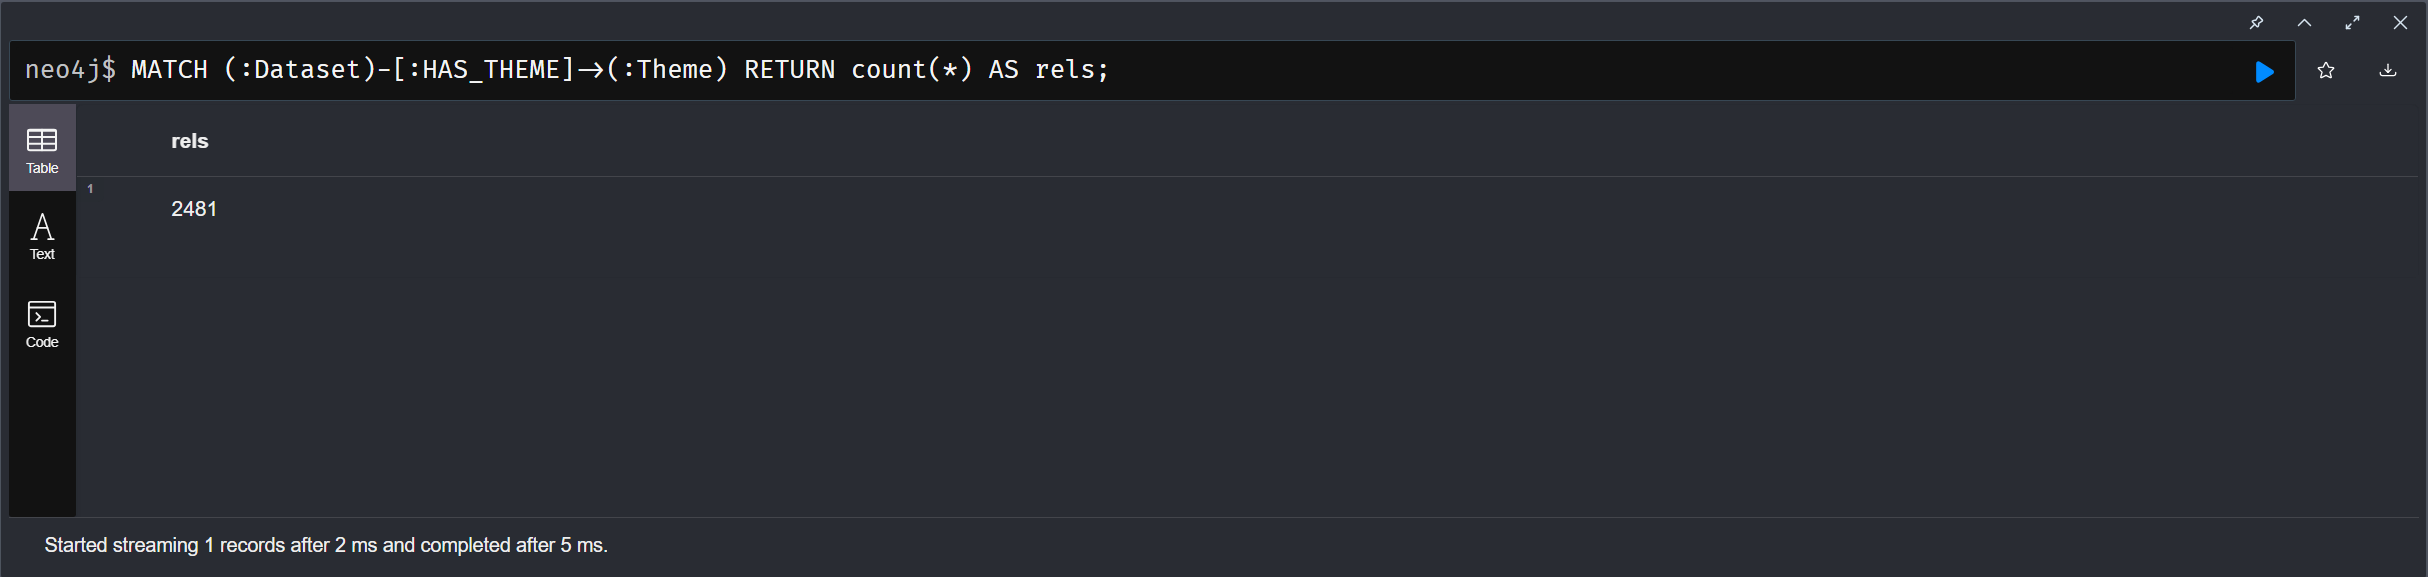
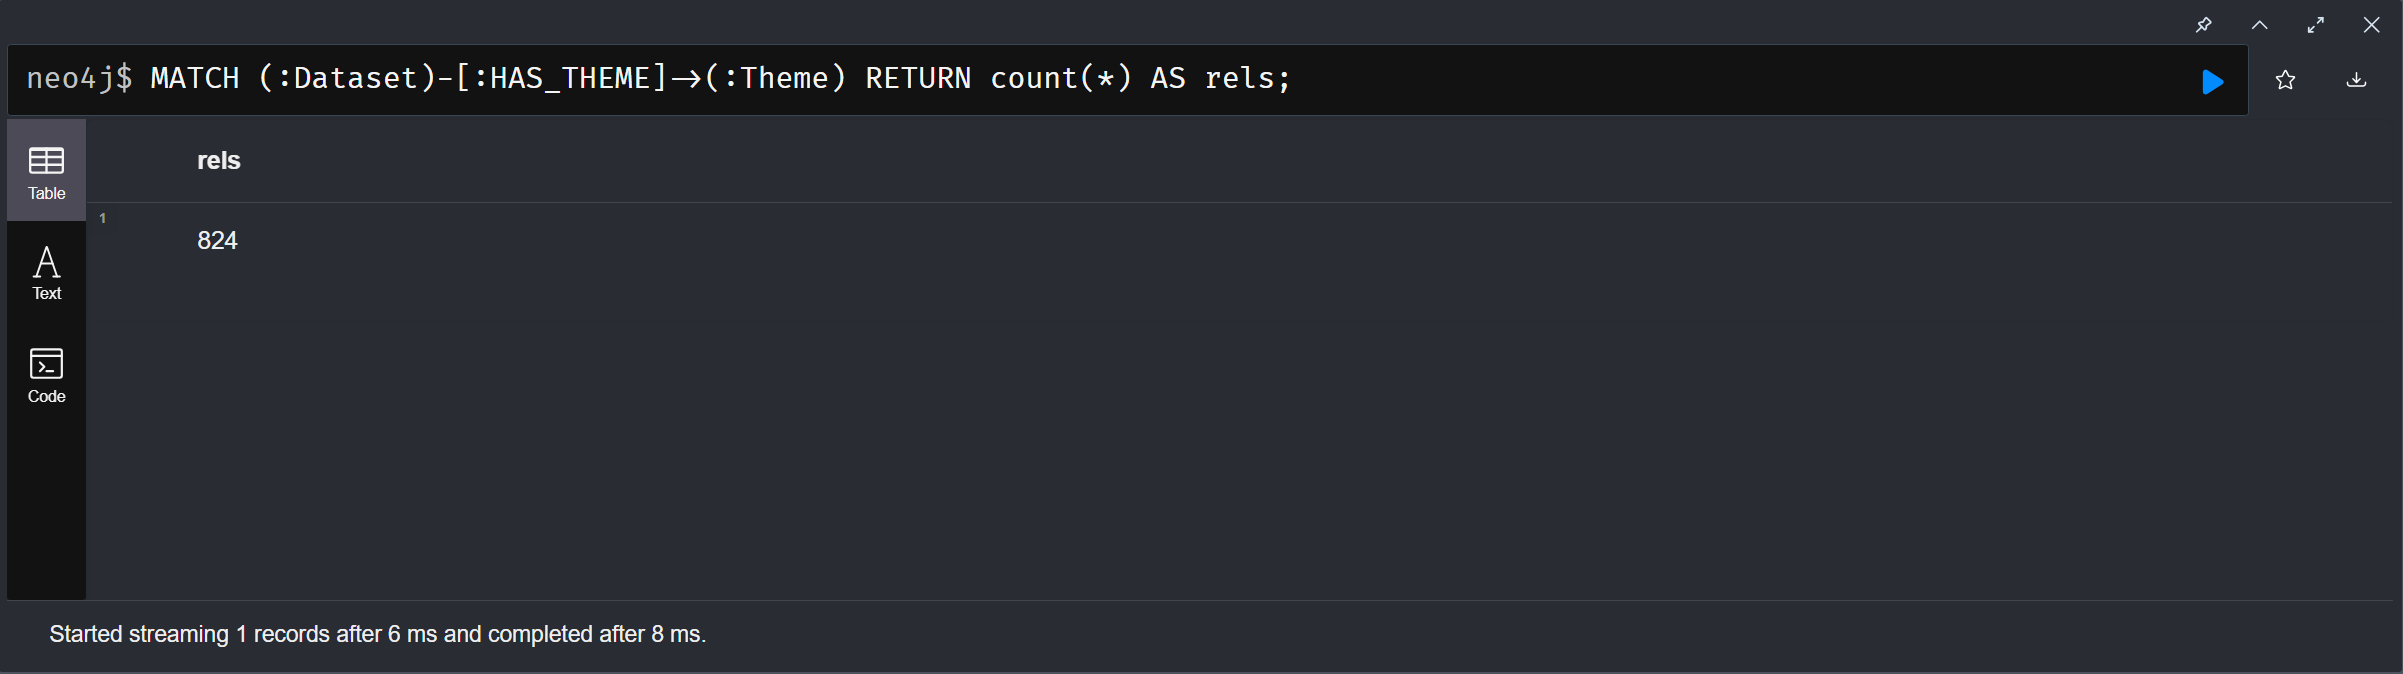
Update report evidence notes and screenshots

Changed region(s): [[0.0, 0.0, 1.0, 1.0]]

diff --git a/docs/report_notes.md b/docs/report_notes.md
@@ -6,10 +6,11 @@
 - MATCH (:Dataset)-[:PUBLISHED_BY]->(:Publisher) RETURN count(*) AS rels;
 
 ## Quick sanity results (from my run)
-- Dataset nodes: 1500
-- Publisher nodes: 769
-- Theme nodes: 32
-- PUBLISHED_BY rels: 1500
+- Dataset nodes: 500
+- Publisher nodes: 274
+- Theme nodes: 21
+- PUBLISHED_BY rels: 500
+- HAS_THEME rels: 824
 
 ## SPARQL queries used
 1) queries/datasets_publishers_themes.sparql
